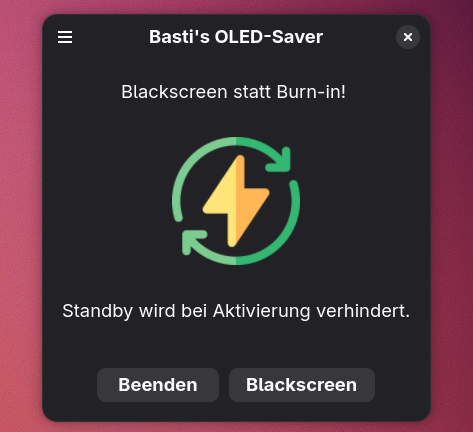
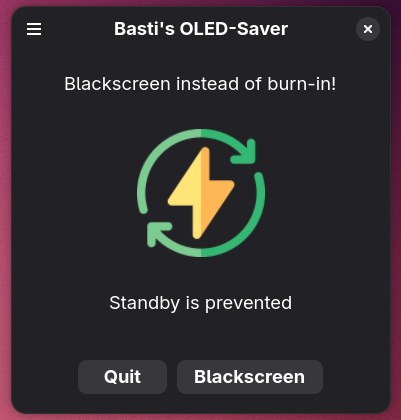
Update to version 1.0

diff --git a/src/main.c b/src/main.c
@@ -2,7 +2,7 @@
  * toq 2025  LICENSE: BSD 2-Clause "Simplified"
  *
  *
- * komplett:
+ *
  * gcc $(pkg-config --cflags gtk4 libadwaita-1 dbus-1) -o oledsaver main.c free.basti.oledsaver.gresource.c $(pkg-config --libs gtk4 libadwaita-1 dbus-1)
  *
  *
@@ -11,7 +11,7 @@
  * Please note:
  * The Use of this code and execution of the applications is at your own risk, I accept no liability!
  * 
- * Version 0.9.9-flatpak  free.basti.oledsaver
+ * Version 1.0  free.basti.oledsaver
  */
 #include <glib.h>
 #include <gtk/gtk.h>
@@ -295,7 +295,7 @@ static void show_about (GSimpleAction *action, GVariant *parameter, gpointer use
     /* About‑Dialog anlegen */
     AdwAboutDialog *about = ADW_ABOUT_DIALOG (adw_about_dialog_new ());
     adw_about_dialog_set_application_name (about, "OLED-Saver");
-    adw_about_dialog_set_version (about, "0.9.9-flatpak");
+    adw_about_dialog_set_version (about, "1.0");
     adw_about_dialog_set_developer_name (about, "Built for Basti™");
     adw_about_dialog_set_website (about, "https://github.com/super-toq");
 
@@ -574,17 +574,18 @@ int main (int argc, char **argv)
 
 
     /* ----- Erstelle den Pfad zu den locale-Dateien ----------------------------------- */
-    setlocale(LC_ALL, "");
-    textdomain("oledsaver");
-    bind_textdomain_codeset("oledsaver", "UTF-8");    // Basisverzeichnis für Übersetzungen
+    setlocale(LC_ALL, "");                         // ruft die aktuelle Locale des Prozesses ab
+//    setlocale (LC_ALL, "en_US.UTF-8"); // testen!!
+    textdomain("bastis-oledsaver");                 // legt Text-Domain-Namen fest
+    bind_textdomain_codeset("bastis-oledsaver", "UTF-8");    // legt entspr. Encoding dazu fest
     if (flatpak_id != NULL && flatpak_id[0] != '\0')  // Wenn ungleich NULL:
     {
         locale_path = "/app/share/locale"; // Flatpakumgebung /app/share/locale
     } else {
         locale_path = "/usr/share/locale"; // Native Hostumgebung /usr/share/locale
     }
-    bindtextdomain("oledsaver", locale_path);
-//    g_print("Localization files in: %s \n", locale_path); // testen
+    bindtextdomain("bastis-oledsaver", locale_path);
+    //g_print("Localization files in: %s \n", locale_path); // testen
 
 
     g_autoptr (AdwApplication) app =      // Instanz erstellen + App-ID + Default-Flags;
